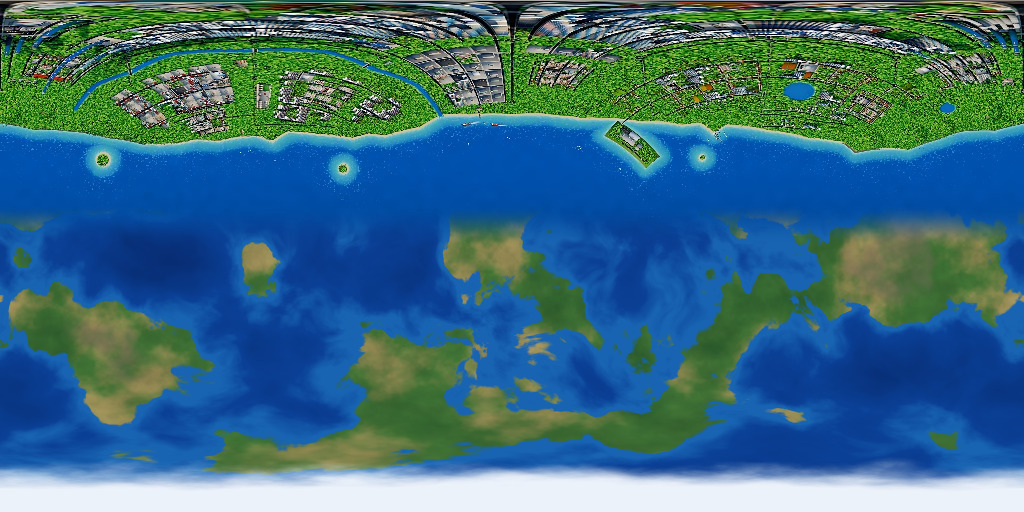
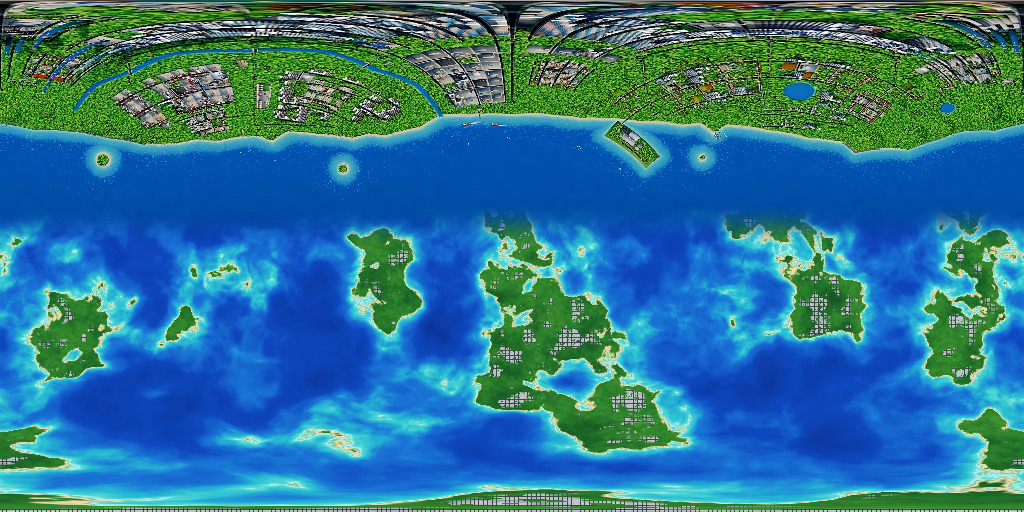
Barrera de niebla entre la atmósfera y el espacio, Valmar como la imagen del dueño (archipiélagos verdes) y sin avisos repetidos de gravedad

diff --git a/roblox/scripts/espacio/gen_espacio_v122.py b/roblox/scripts/espacio/gen_espacio_v122.py
@@ -183,21 +183,36 @@ def gen_valmar():
     d, lat = G.sphere_dirs(W, H)
     v = (np.arange(H, dtype=np.float32) + 0.5) / H
     vv = np.repeat(v[:, None], W, 1)
-    p = (d[..., 0] * 1.5, d[..., 1] * 1.5, d[..., 2] * 1.5)
-    e = fbm(warp(p, 0.65, 1.2, 41), 7, 1.0, seed=1101)
-    detail = fbm(p, 6, 6.0, seed=1103)
-    # Océano: azul profundo con bajíos más claros cerca de la costa
-    ocean = mix_palette([(0.0, col(6, 34, 96)), (0.42, col(10, 64, 150)), (0.5, col(24, 100, 178))], e)
-    land_mask = smooth(0.52, 0.54, e + (detail - 0.5) * 0.05)
-    hum = fbm(p, 5, 2.4, seed=1105)
-    land = mix_palette([(0.0, col(196, 168, 112)), (0.35, col(150, 140, 84)), (0.55, col(64, 112, 52)), (1.0, col(30, 82, 40))], hum)
-    land *= (0.85 + 0.25 * detail)[..., None]
-    mount = smooth(0.66, 0.78, e)
-    land = land * (1 - 0.5 * mount[..., None]) + mount[..., None] * col(120, 104, 90) * 0.5
+    # (v153, imagen del dueño: planeta azul vivo con ARCHIPIÉLAGOS verdes, playas, lagunas turquesa y
+    # trozos de ciudad en cuadrícula; nada de desiertos marrones ni casquete de hielo)
+    p = (d[..., 0] * 2.6, d[..., 1] * 2.6, d[..., 2] * 2.6)
+    e = fbm(warp(p, 0.55, 1.4, 41), 7, 1.0, seed=1101)
+    detail = fbm(p, 6, 7.0, seed=1103)
+    e = e + (detail - 0.5) * 0.06
+    # Océano: azul intenso; más claro (turquesa) en los bajíos junto a las islas
+    ocean = mix_palette([(0.0, col(8, 40, 130)), (0.38, col(14, 72, 190)), (0.5, col(26, 120, 214)),
+                         (0.56, col(40, 190, 210)), (0.595, col(110, 225, 215))], e)
+    land_mask = smooth(0.595, 0.605, e)
+    beach = smooth(0.595, 0.605, e) * (1 - smooth(0.607, 0.62, e))
+    hum = fbm(p, 5, 3.0, seed=1105)
+    land = mix_palette([(0.0, col(70, 150, 50)), (0.45, col(46, 132, 44)), (0.7, col(28, 104, 40)), (1.0, col(18, 80, 34))], hum)
+    land *= (0.8 + 0.35 * fbm(p, 4, 22.0, seed=1107))[..., None]  # copas de árboles
+    land = land * (1 - beach[..., None]) + beach[..., None] * col(236, 220, 170)
+    # Trozos de ciudad: cuadrícula de manzanas grises con calles, en el centro de algunas islas
+    lon = np.arctan2(d[..., 0], d[..., 2])
+    latr = np.arcsin(np.clip(d[..., 1], -1, 1))
+    gx, gy = lon * 180.0, latr * 180.0
+    blocks = (np.abs(np.sin(gx * 2.2)) > 0.32) & (np.abs(np.sin(gy * 2.2)) > 0.32)
+    city = smooth(0.64, 0.68, e) * smooth(0.56, 0.62, fbm(p, 4, 4.0, seed=1109))
+    roofs = mix_palette([(0, col(150, 156, 164)), (0.5, col(200, 204, 210)), (1, col(120, 126, 136))], fbm(p, 3, 60.0, seed=1111))
+    cityc = np.where(blocks[..., None], roofs, col(62, 70, 74))
+    park = fbm(p, 3, 30.0, seed=1113) > 0.62
+    cityc = np.where(park[..., None], land, cityc)
+    land = land * (1 - city[..., None]) + cityc * city[..., None]
     world = ocean * (1 - land_mask[..., None]) + land * land_mask[..., None]
-    # Hielo en el polo de abajo
-    ice = smooth(0.9, 0.95, vv + (detail - 0.5) * 0.04)
-    world = world * (1 - ice[..., None]) + ice[..., None] * col(236, 242, 250)
+    # (oleaje blanco en el borde de la costa)
+    surf = np.exp(-((e - 0.593) ** 2) / 0.00002) * 0.5
+    world = world * (1 - surf[..., None]) + surf[..., None] * col(240, 250, 250)
     # La isla de verdad (casquete de arriba) se queda tal cual; se funde hacia el mundo nuevo
     keep = smooth(0.48, 0.4, vv)
     # (el mar de la textura vieja junto a la isla se oscurece un poco para casar con el océano nuevo)
